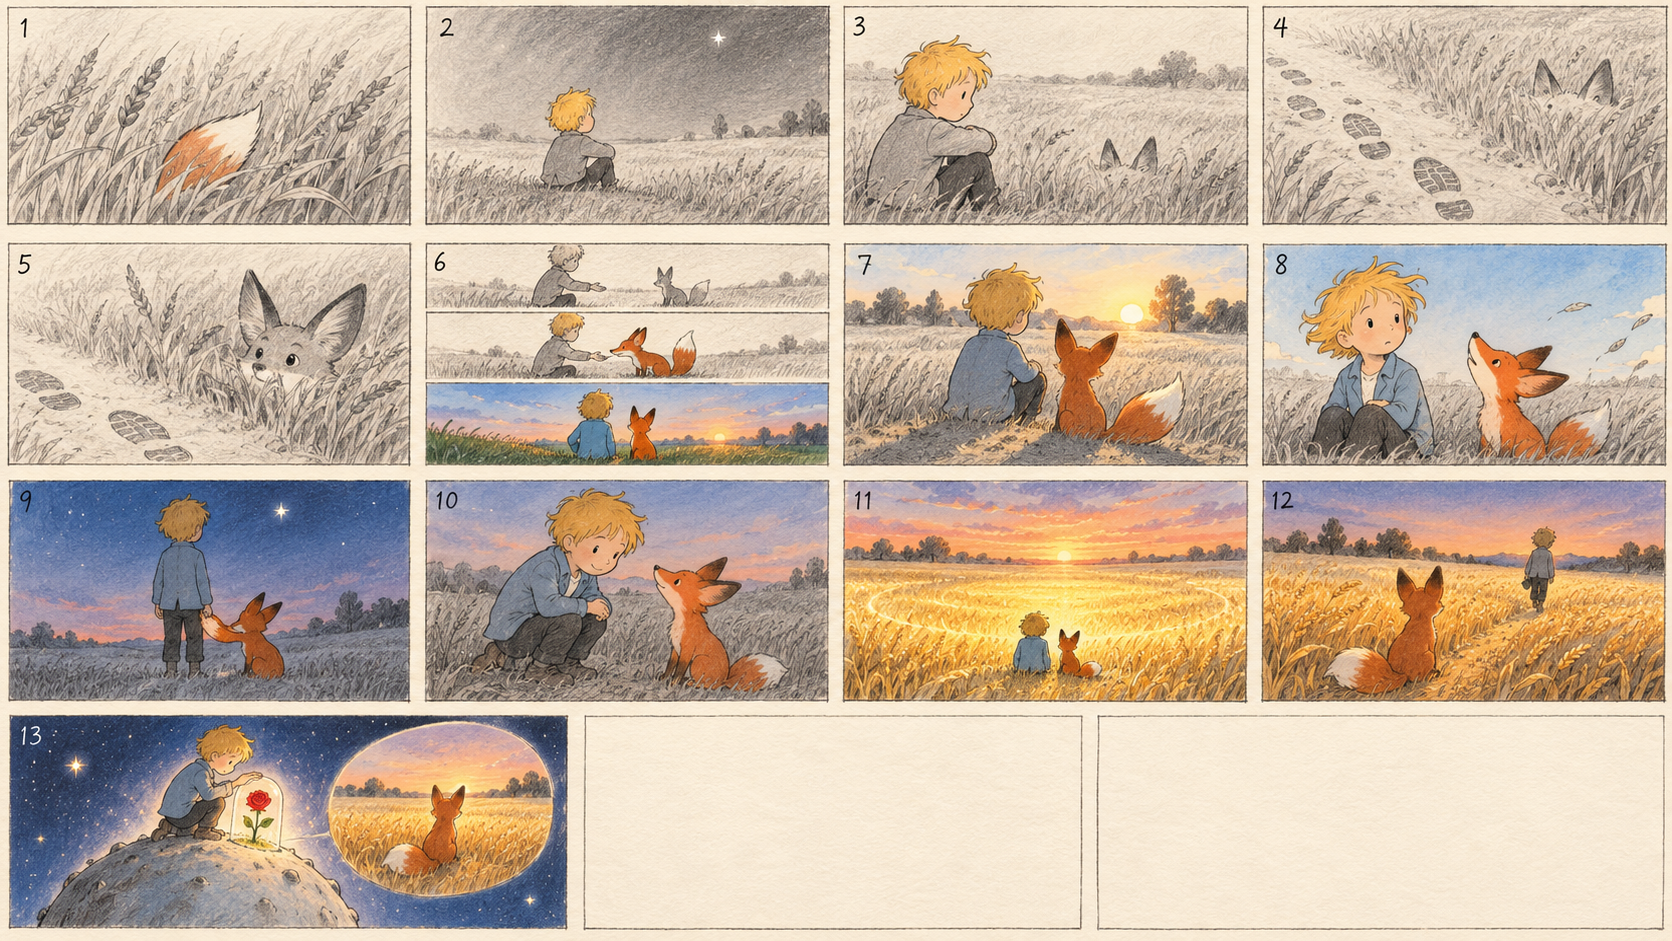
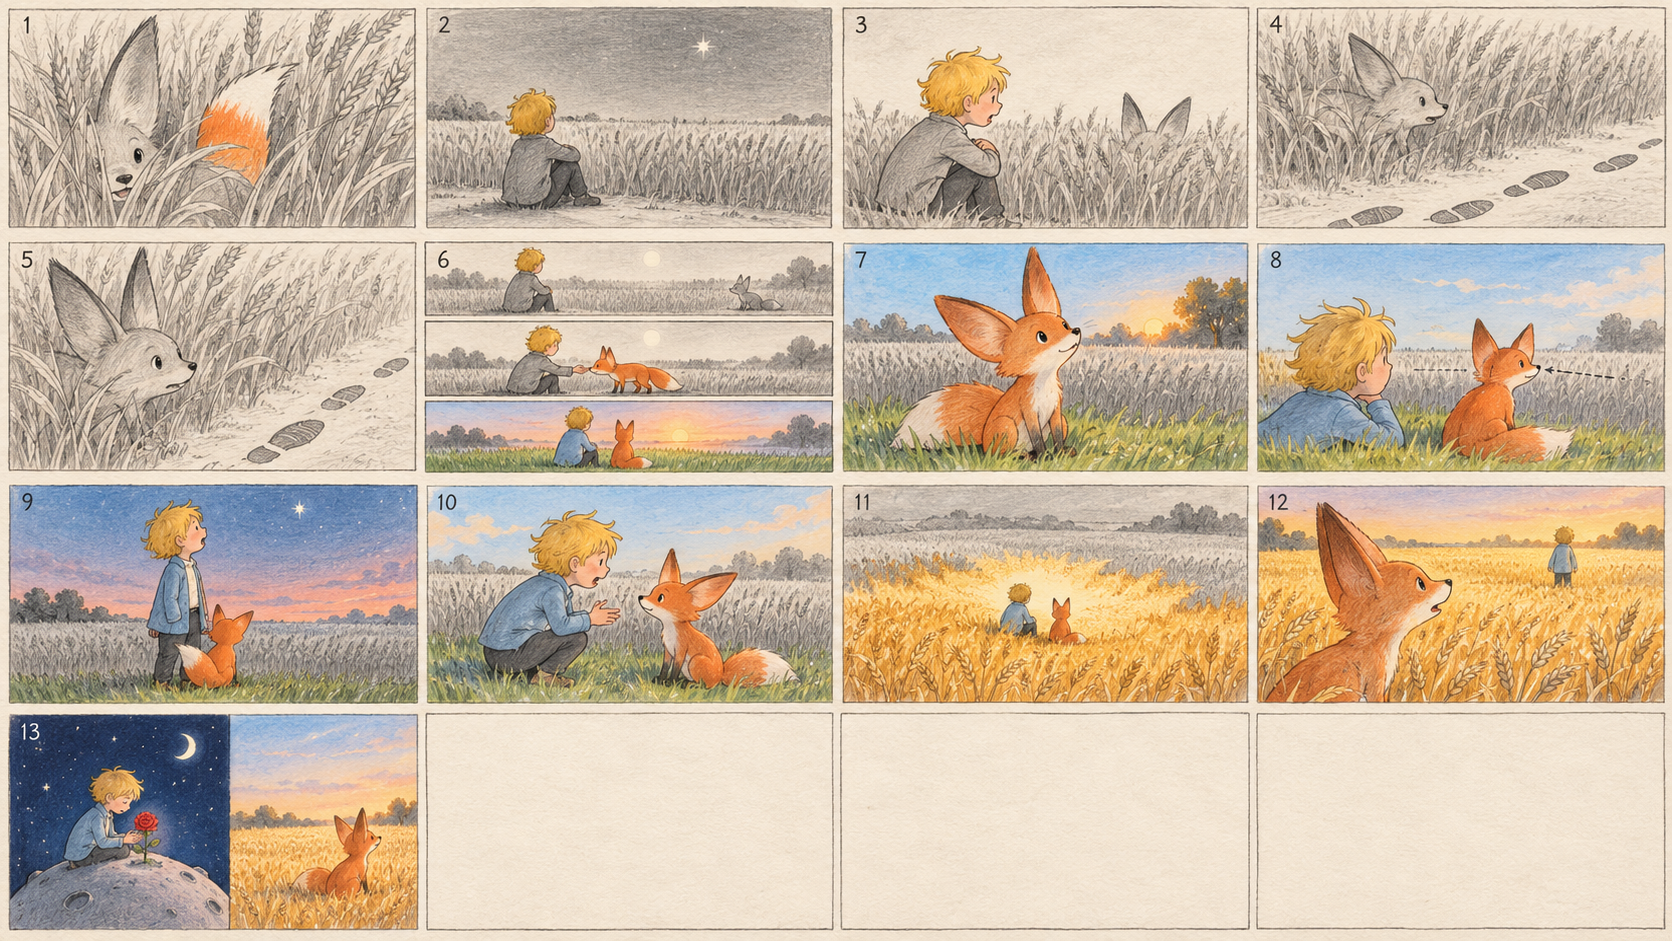
docs(watercolor): 分镜图第 3 版（按 Codex 看图意见）

diff --git a/data/AI水彩画/小王子与狐狸_驯养/prompts/分镜图.md b/data/AI水彩画/小王子与狐狸_驯养/prompts/分镜图.md
@@ -1,6 +1,6 @@
 # 分镜图提示词
 
-第 1 版（imgs/分镜图_v1.png）没守住颜色规则：狐狸和外套一开始就有颜色，第 7、10 格麦田提前变金，脚印画成了爪印。第 2 版把每格的颜色状态写死。
+第 1 版（imgs/分镜图_v1.png）没守住颜色规则：狐狸和外套一开始就有颜色，第 7、10 格麦田提前变金，脚印画成了爪印。第 2 版（imgs/分镜图_v2.png）把每格的颜色状态写死。第 3 版按 Codex 看图意见改：说话的人露脸张嘴，第 6 格三条同机位，第 7 格只拍狐狸，绿草保留，第 8 格画出视线，第 11 格不规则晕染不要圆环，第 13 格左右分屏。动作的先后顺序（说完再点耳、勾住停一拍再松开）写在剧本制作要求里，分镜图不画。
 
 模型：gpt-image-2.5-sunburst（本机生图网关，images/generations，quality/size auto）
 
@@ -21,17 +21,20 @@ Color rule (MOST IMPORTANT, follow exactly per panel):
 - The footprints in panels 4 and 5 are human shoe prints, not paw prints.
 
 Panels:
-1. Close-up: grey wheat field, a fox tail peeking from the grass flashing orange. Everything grey except that tail.
-2. Wide shot: the boy stops at the edge of a grey wheat field and sits down, looking up at one tiny star in the sky. Only his hair is golden.
-3. Medium: the boy hugs his knees, two fox ears poke up from the grass, nodding.
-4. Medium: rows of grey footprints pass across the frame, the fox ducks back into the grass.
-5. Close-up: a new line of footprints approaching, the fox's ears stand up and its head turns.
-6. Same composition three times in one panel split into three thin strips: day 1 the fox far away; day 2 the boy's hand stopped mid-air and the fox sniffing it (the fox is now orange); day 3 the boy sitting with an empty spot beside him and the fox sitting in it, green grass, blue sky at sunset.
-7. Close-up, afternoon (not sunset): the sun just above a treetop, long shadows, the fox (orange) already sitting at the same spot, tail sweeping; grey wheat behind.
-8. Medium: wind lifts the boy's golden hair, the fox looks at his hair, then back at the still-grey wheat field.
-9. Wide: dusk, the boy stands looking at the star, the fox's tail gently hooking the hem of his jacket.
-10. Medium: the boy turns back and crouches down in front of the fox.
-11. Wide, the climax: golden color spreading from where they sat, flowing along the wheat ears until the whole field glows gold.
-12. Medium: the boy walking away into the evening, the fox watching the golden field.
-13. Wide: the boy on a tiny planet shielding a single red rose with his hands; inset of the fox sitting beside an empty spot in a golden wheat field.
+1. Close-up: grey wheat field; the fox hides in the grass, only half of its face and one big ear peek out, mouth slightly open as if whispering; its tail tip flashes orange. Everything else grey pencil.
+2. Wide shot: the boy stops at the edge of a grey wheat field and sits down, looking up at one tiny star. Only his golden hair is colored; his jacket is grey. His mouth closed.
+3. Medium: the boy hugs his knees and speaks toward the grass (mouth open); two grey fox ears poke up from the grass a little distance away.
+4. Medium: lines of grey human shoe prints pass across the frame; the grey fox ducks into the grass, mouth open talking.
+5. Close-up: a new line of grey shoe prints approaching; the grey fox's ears stand up, head turned toward them.
+6. ONE panel split into three thin horizontal strips with the EXACT SAME camera angle, side view, same framing, sun at the same height in all three:
+   - strip A (day 1): the boy (golden hair, grey jacket) sitting on the left, the grey fox far away on the right. Everything else grey.
+   - strip B (day 2): same framing; the boy's hand stopped in mid-air, the fox now ORANGE stepping in to sniff his hand. Grass and sky still grey.
+   - strip C (day 3): same framing; the boy sits with an empty patch beside him and the orange fox sitting in it; the grass is now GREEN, the sky and the boy's jacket are now light BLUE (sunset). The wheat behind them is still grey.
+7. Close-up of the orange fox alone, waiting at the same spot, tail sweeping the ground; afternoon, the sun just above a treetop, long shadows; green grass, blue sky, grey wheat behind. The boy is NOT in this panel.
+8. Medium: wind lifts the boy's golden hair; the fox's head is turned back over its shoulder toward the grey wheat field behind it (show its gaze with a small dotted line from his hair to the wheat). Green grass, blue sky, grey wheat.
+9. Medium-wide at dusk: the boy stands facing the camera three-quarter view, mouth open speaking, looking up at the star; the fox's tail curls around the hem of his blue jacket. Green grass, grey wheat.
+10. Medium: the boy crouches in front of the fox, facing it, mouth open speaking; green grass, grey wheat.
+11. Wide, the climax: gold spreading outward like wet watercolor bleeding through paper, irregular organic edges (NOT a glowing ring), starting from the spot where the two sit and running along the wheat ears; the far part of the field is still grey, the near part already gold.
+12. Medium: the orange fox in the foreground in side profile, mouth open speaking softly; the boy small in the far distance walking away; the whole wheat field golden.
+13. Panel split into left and right halves, no bubble or circle frame: left half, the boy on a tiny planet at night shielding a single red rose with his hands; right half, the fox sitting beside the empty spot in the golden wheat field, with blank space at the top for a title.
 ```
